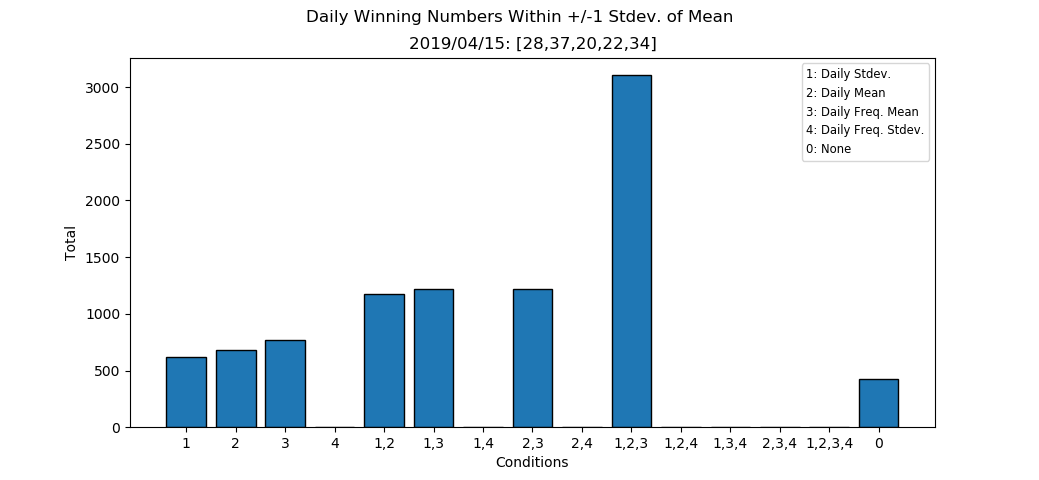
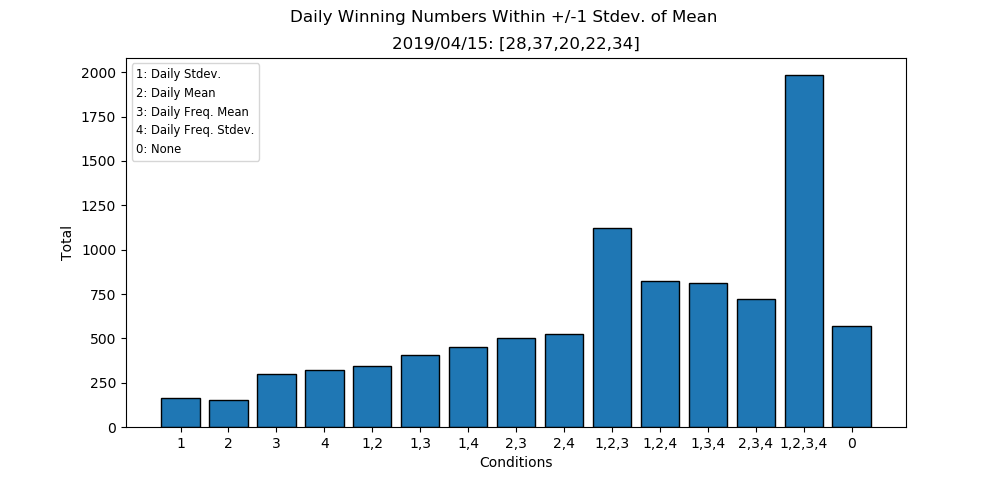
fix conditions plot

diff --git a/fantasy5stats.py b/fantasy5stats.py
@@ -226,7 +226,7 @@ def print_stats(histogram_items, histogram_dict, ascend_hist, tot_cnt, tot_sum, 
         stdev_line = pstdev(line)
         mean_line = mean(line)
         mean_freq_line = mean([*map(lambda x: histogram_dict[x], [*map(str, line)])])
-        stdev_freq_line = pstdev(line)
+        stdev_freq_line = pstdev([*map(lambda x: histogram_dict[x], [*map(str, line)])])
         t_1 = False
         t_2 = False
         t_3 = False
